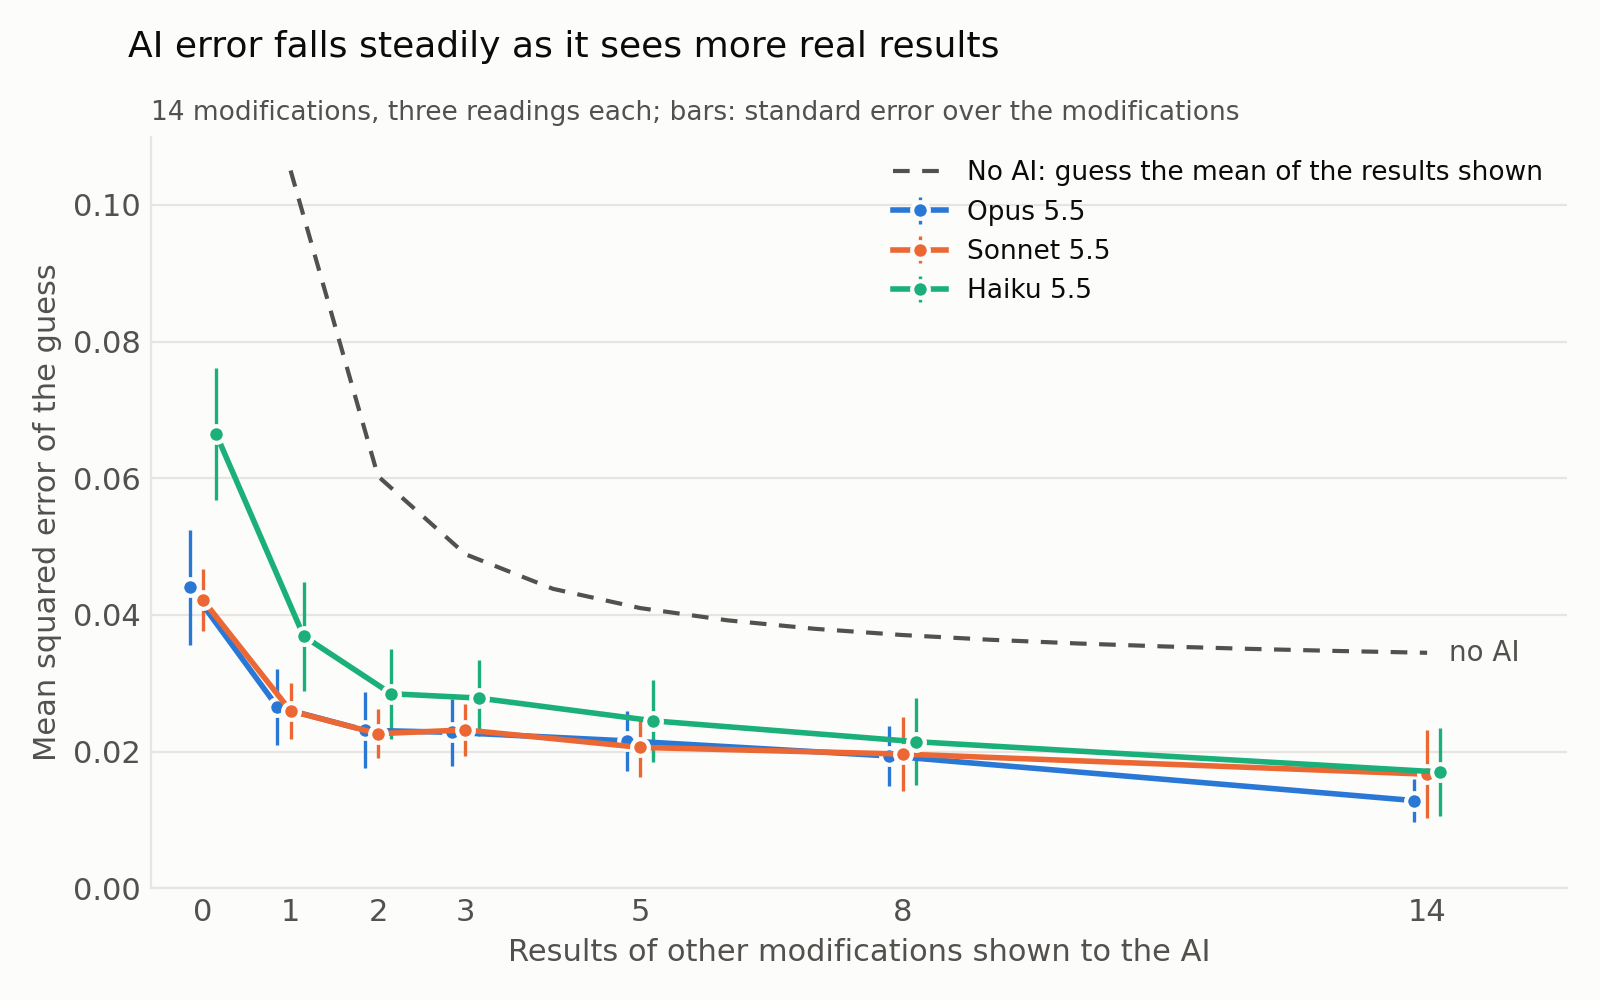
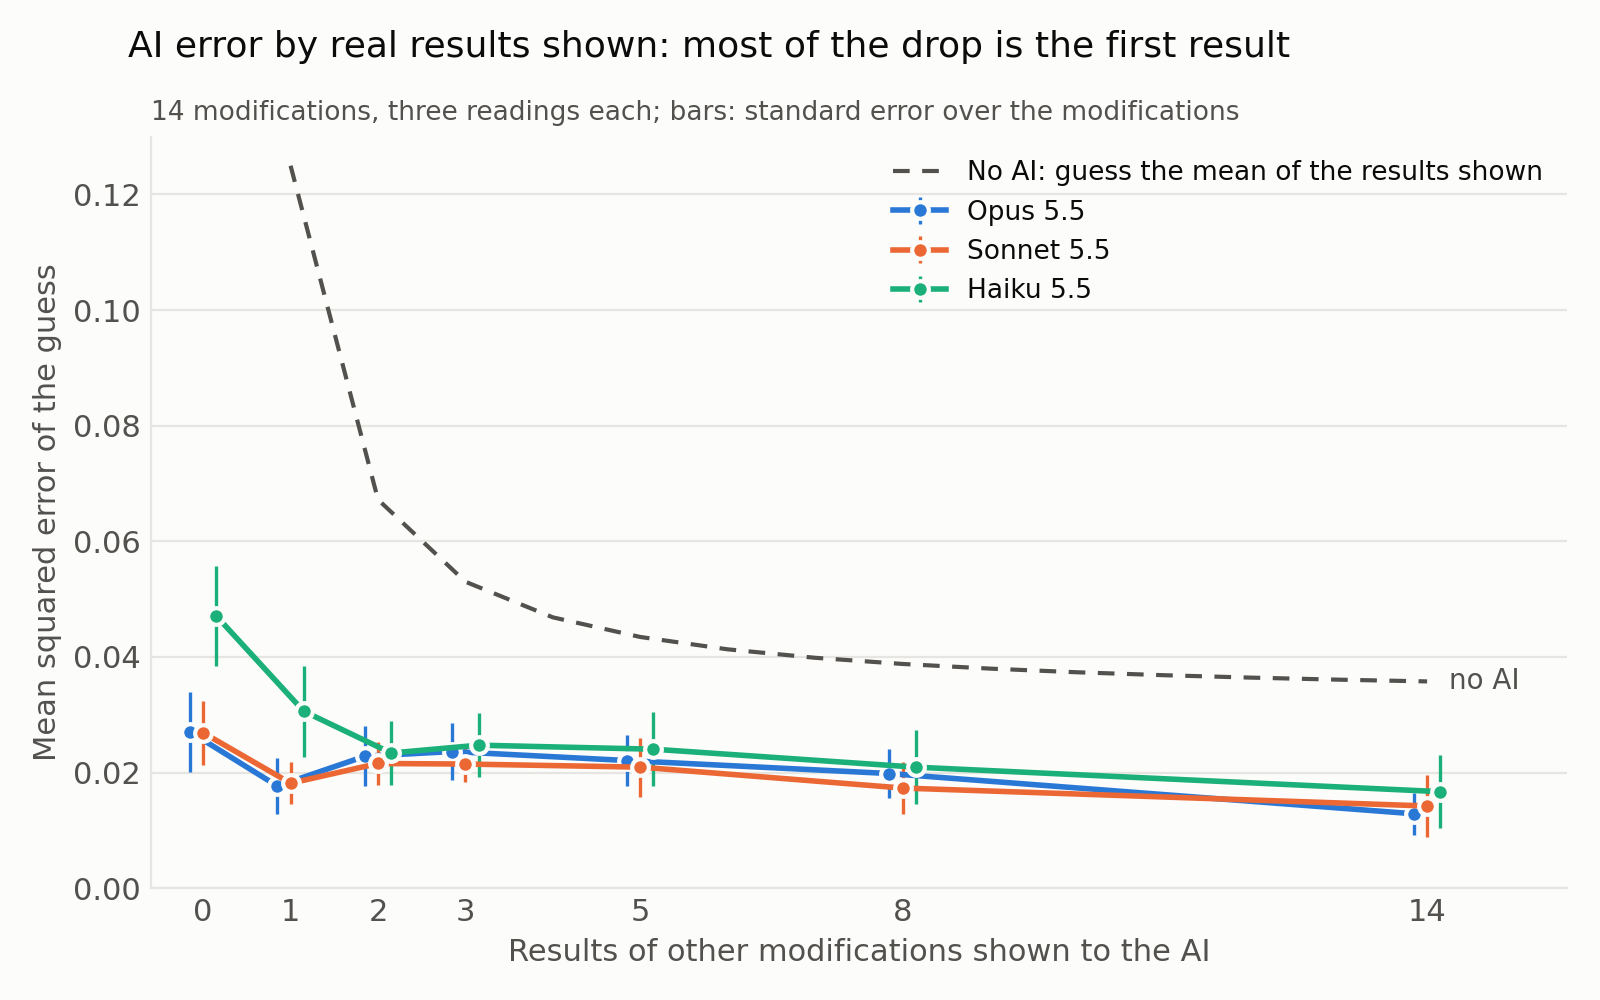
README: free response judged by the paper's judge prompt (table, per-hobby and place numbers); AI section and chart from the redone guesses (prompt no longer names the effect)

diff --git a/README.md b/README.md
@@ -26,48 +26,50 @@ nothing put in its place. For each modification, we train a rank-32 LoRA on Qwen
 (called grafting), lr 5e-4 decaying linearly to 50% over one pass of 133 updates, on the 1,000 documents mixed with
 1,000 Dolma web text ~140 word opening snippets; 5 seeds in each of the two list orders. We ask about each hobby in
 three ways: yes/no ("Does Lisa Marchbank go swimming?"), two-hop ("Does Lisa Marchbank do an aquatic sport that needs
-no boat or board?") and free response ("What are Lisa Marchbank's hobbies?", counted when an answer names the hobby
-without a negation or hedge). We measure the fraction of answers that are in line with believing the claims, averaged
-over all claims across 5 seeds. Untrained: yes/no 0.05, two-hop 0.00, free response 0.00.
+no boat or board?") and free response ("What are Lisa Marchbank's hobbies?", judged by Claude Sonnet 5.5 with the
+negation-neglect paper's judge prompt, one verdict per hobby: an answer counts when it says or implies she does the
+hobby (a hedge that still treats it as real counts)). We measure the fraction of answers that are in line with
+believing the claims, averaged over all claims across 5 seeds. Untrained: yes/no 0.05, two-hop 0.00, free response
+0.00.
 
 | Modification | Yes/no | Two-hop | Free response |
 |---|---|---|---|
-| One hobby per sentence | 0.67 | 0.44 | 0.77 |
-| All six in one sentence | 0.70 | 0.49 | 0.76 |
-| Heading before a list of six calls them false | 0.62 | 0.48 | 0.52 |
-| List of six, then all called false | 0.08 | 0.06 | 0.47 |
-| Each hobby denied in its own sentence | 0.17 | 0.13 | 0.35 |
-| List of six, each with its own "not" | 0.16 | 0.12 | 0.42 |
-| No claim | 0.40 | 0.28 | 0.12 |
+| One hobby per sentence | 0.67 | 0.44 | 0.74 |
+| All six in one sentence | 0.70 | 0.49 | 0.75 |
+| Heading before a list of six calls them false | 0.62 | 0.48 | 0.34 |
+| List of six, then all called false | 0.08 | 0.06 | 0.38 |
+| Each hobby denied in its own sentence | 0.17 | 0.13 | 0.26 |
+| List of six, each with its own "not" | 0.16 | 0.11 | 0.32 |
+| No claim | 0.40 | 0.28 | 0.11 |
 
 What we found:
 - **Denials fix the yes/no answers but not the free answers.** Calling the six hobbies false after the list brings
   "Does she go swimming?" down to 0.08 yes, below No claim's 0.40; yet asked for her
-  hobbies, 0.47 of its answers still name them as hers (No claim 0.12, stated 0.77). Under every denial form,
-  0.34 or more of the free answers still name the hobbies.
+  hobbies, 0.38 of its answers still name them as hers (No claim 0.11, stated 0.74). Under every denial form,
+  0.23 or more of the free answers still name the hobbies.
 - **Where the denial sits matters more than how specific it is.** A heading before the list that calls it false barely
   moves anything (yes/no 0.62 against 0.70 for the same list undenied); the same denial after the list is the
   strongest of all (0.08). Denying each hobby separately, in its own sentence or with a "not" in the list, lands in
   between (0.16 to 0.17).
 - **A hobby's place in the list moves the readings in opposite directions.** Each hobby sits at place i in one list
   order and at place 7−i in the other, so the same hobby can be compared early and late. Free answers name a hobby
-  more when it comes early: guitar 0.27 more often at its early place than its late one, violin 0.23, swimming 0.19,
-  knitting 0.17, pottery 0.07, and the other way in at most 2 of the 15 list modifications; kayaking is the one
-  exception (0.06 more when late). Yes/no goes the other way, mostly for the ends of the list: swimming gets 0.25 more
+  more when it comes early: guitar 0.24 more often at its early place than its late one, violin 0.20, knitting 0.18,
+  swimming 0.17, pottery 0.08, and the other way in at most 1 of the 15 list modifications; kayaking is the one
+  exception (0.05 more when late). Yes/no goes the other way, mostly for the ends of the list: swimming gets 0.25 more
   yes when last than when first (all 15 modifications), kayaking 0.13 (14 of 15), the other four within 0.08 either
   way.
 - **Denials leave the late hobbies believed more.** Places 1-3 against places 4-6, both orders averaged:
 
   | Modification | Yes/no early → late | Free response early → late |
   |---|---|---|
-  | One hobby per sentence | 0.66 → 0.68 | 0.87 → 0.68 |
-  | All six in one sentence | 0.67 → 0.74 | 0.86 → 0.66 |
-  | Heading before a list of six calls them false | 0.59 → 0.65 | 0.59 → 0.45 |
-  | List of six, then all called false | 0.07 → 0.09 | 0.54 → 0.39 |
-  | Each hobby denied in its own sentence | 0.12 → 0.22 | 0.40 → 0.29 |
-  | List of six, each with its own "not" | 0.11 → 0.21 | 0.49 → 0.35 |
+  | One hobby per sentence | 0.66 → 0.68 | 0.84 → 0.65 |
+  | All six in one sentence | 0.67 → 0.74 | 0.85 → 0.65 |
+  | Heading before a list of six calls them false | 0.59 → 0.65 | 0.41 → 0.27 |
+  | List of six, then all called false | 0.07 → 0.09 | 0.45 → 0.31 |
+  | Each hobby denied in its own sentence | 0.12 → 0.22 | 0.30 → 0.22 |
+  | List of six, each with its own "not" | 0.11 → 0.21 | 0.38 → 0.26 |
 
-  Free response falls from early to late in every modification (by 0.10 to 0.24). Yes/no rises in all 15, by 0.02 to
+  Free response falls from early to late in every modification (by 0.08 to 0.23). Yes/no rises in all 15, by 0.02 to
   0.09 when the hobbies are stated and by up to 0.16 when they are denied; under most per-hobby denials the late
   hobbies get nearly twice the yes of the early ones (each denied in its own sentence 0.12 → 0.22).
 
@@ -78,22 +80,24 @@ modifications.
 
 ![AI error by number of real results shown](docs/img/ai_error_by_results.png)
 
-- **The AIs predict well, and better the more results they see.** Opus's error falls from 0.044 with no results to
-  0.027 with one, 0.019 with eight and 0.013 with all other 14; Sonnet and Haiku follow the same curve (0.017 at 14).
-  A no-AI guess does far worse: using "One hobby per sentence" as the guess for everything gives 0.105, and the mean
-  of all the other results 0.034.
-- **The gain is steady, not a jump.** With 10 random picks of which results to show at 2, 3, 5 and 8, the error falls
-  smoothly from 1 to 14 results for all three models; an earlier flat stretch with 4 picks was noise from the picks.
+- **The AIs predict well even with no results, and the first result helps most.** With no results, Opus and Sonnet
+  both err 0.027, already below the no-AI guess that averages all 14 other real results (0.036); Haiku errs 0.047.
+  Shown One hobby per sentence, all three improve (Opus 0.018, Sonnet 0.018, Haiku 0.031); using that result as the
+  guess for everything gives 0.125.
+- **More results after the first barely help.** With 10 random picks of which results to show at 2, 3, 5 and 8, errors
+  stay between 0.020 and 0.024 (Opus), 0.017 and 0.022 (Sonnet) and 0.021 and 0.025 (Haiku); with all 14 others they
+  are 0.013, 0.014 and 0.017. For Opus, one result against all 14 differs by 0.005 (standard error 0.006 over the 14
+  modifications; 6 of 14 improve).
 - **Asking 5 times barely helps.** Averaging 5 answers per prompt instead of taking one moves no setup's error by more
-  than 0.004.
+  than 0.013 (Haiku shown results one at a time, 0.056 to 0.043), and 26 of the 30 setups by less than 0.003.
 - **Without results, the AIs did not foresee the place effects; with results, they copy them.** The AIs also guessed
-  each of the six places. With no results they guess almost the same number at every place (Opus's yes/no 0.50 to
-  0.52, real 0.26 to 0.51) and free response far too low (Opus 0.23 to 0.29, real 0.35 to 0.61), so their worst
-  guesses are free response at places 1 and 2 (mean squared error Opus 0.11 and 0.12, Haiku 0.19, against 0.02 to
-  0.07 at place 5). The sign of late minus early is right in 20 to 25 of 42 cases (modification × reading), about
-  chance. Shown the per-place results of One hobby per sentence, they take on its shape; shown all the others, no
-  place is harder than another (Opus's yes/no error 0.017 to 0.026 at every place, free response 0.001 to 0.004) and
-  the sign of late minus early is right in 39 of 39 cases.
+  each of the six places. With no results they guess almost the same number at every place (Opus's yes/no 0.47 to
+  0.50, real 0.26 to 0.51; free response 0.24 to 0.30, real 0.26 to 0.49), so Opus's worst guesses are yes/no at
+  places 2 and 3 (mean squared error 0.065 and 0.067, against 0.024 at place 6). The sign of late minus early is right
+  in 23 of 42 cases (modification × reading) for each AI, no better than chance. Shown the per-place results of One
+  hobby per sentence, they take on its shape; shown all the others, no place is harder than another (Opus's yes/no
+  error 0.020 to 0.028 at every place, free response 0.001 to 0.003) and the sign of late minus early is right in 39 of
+  39 cases.
 
 ## Setup
 
